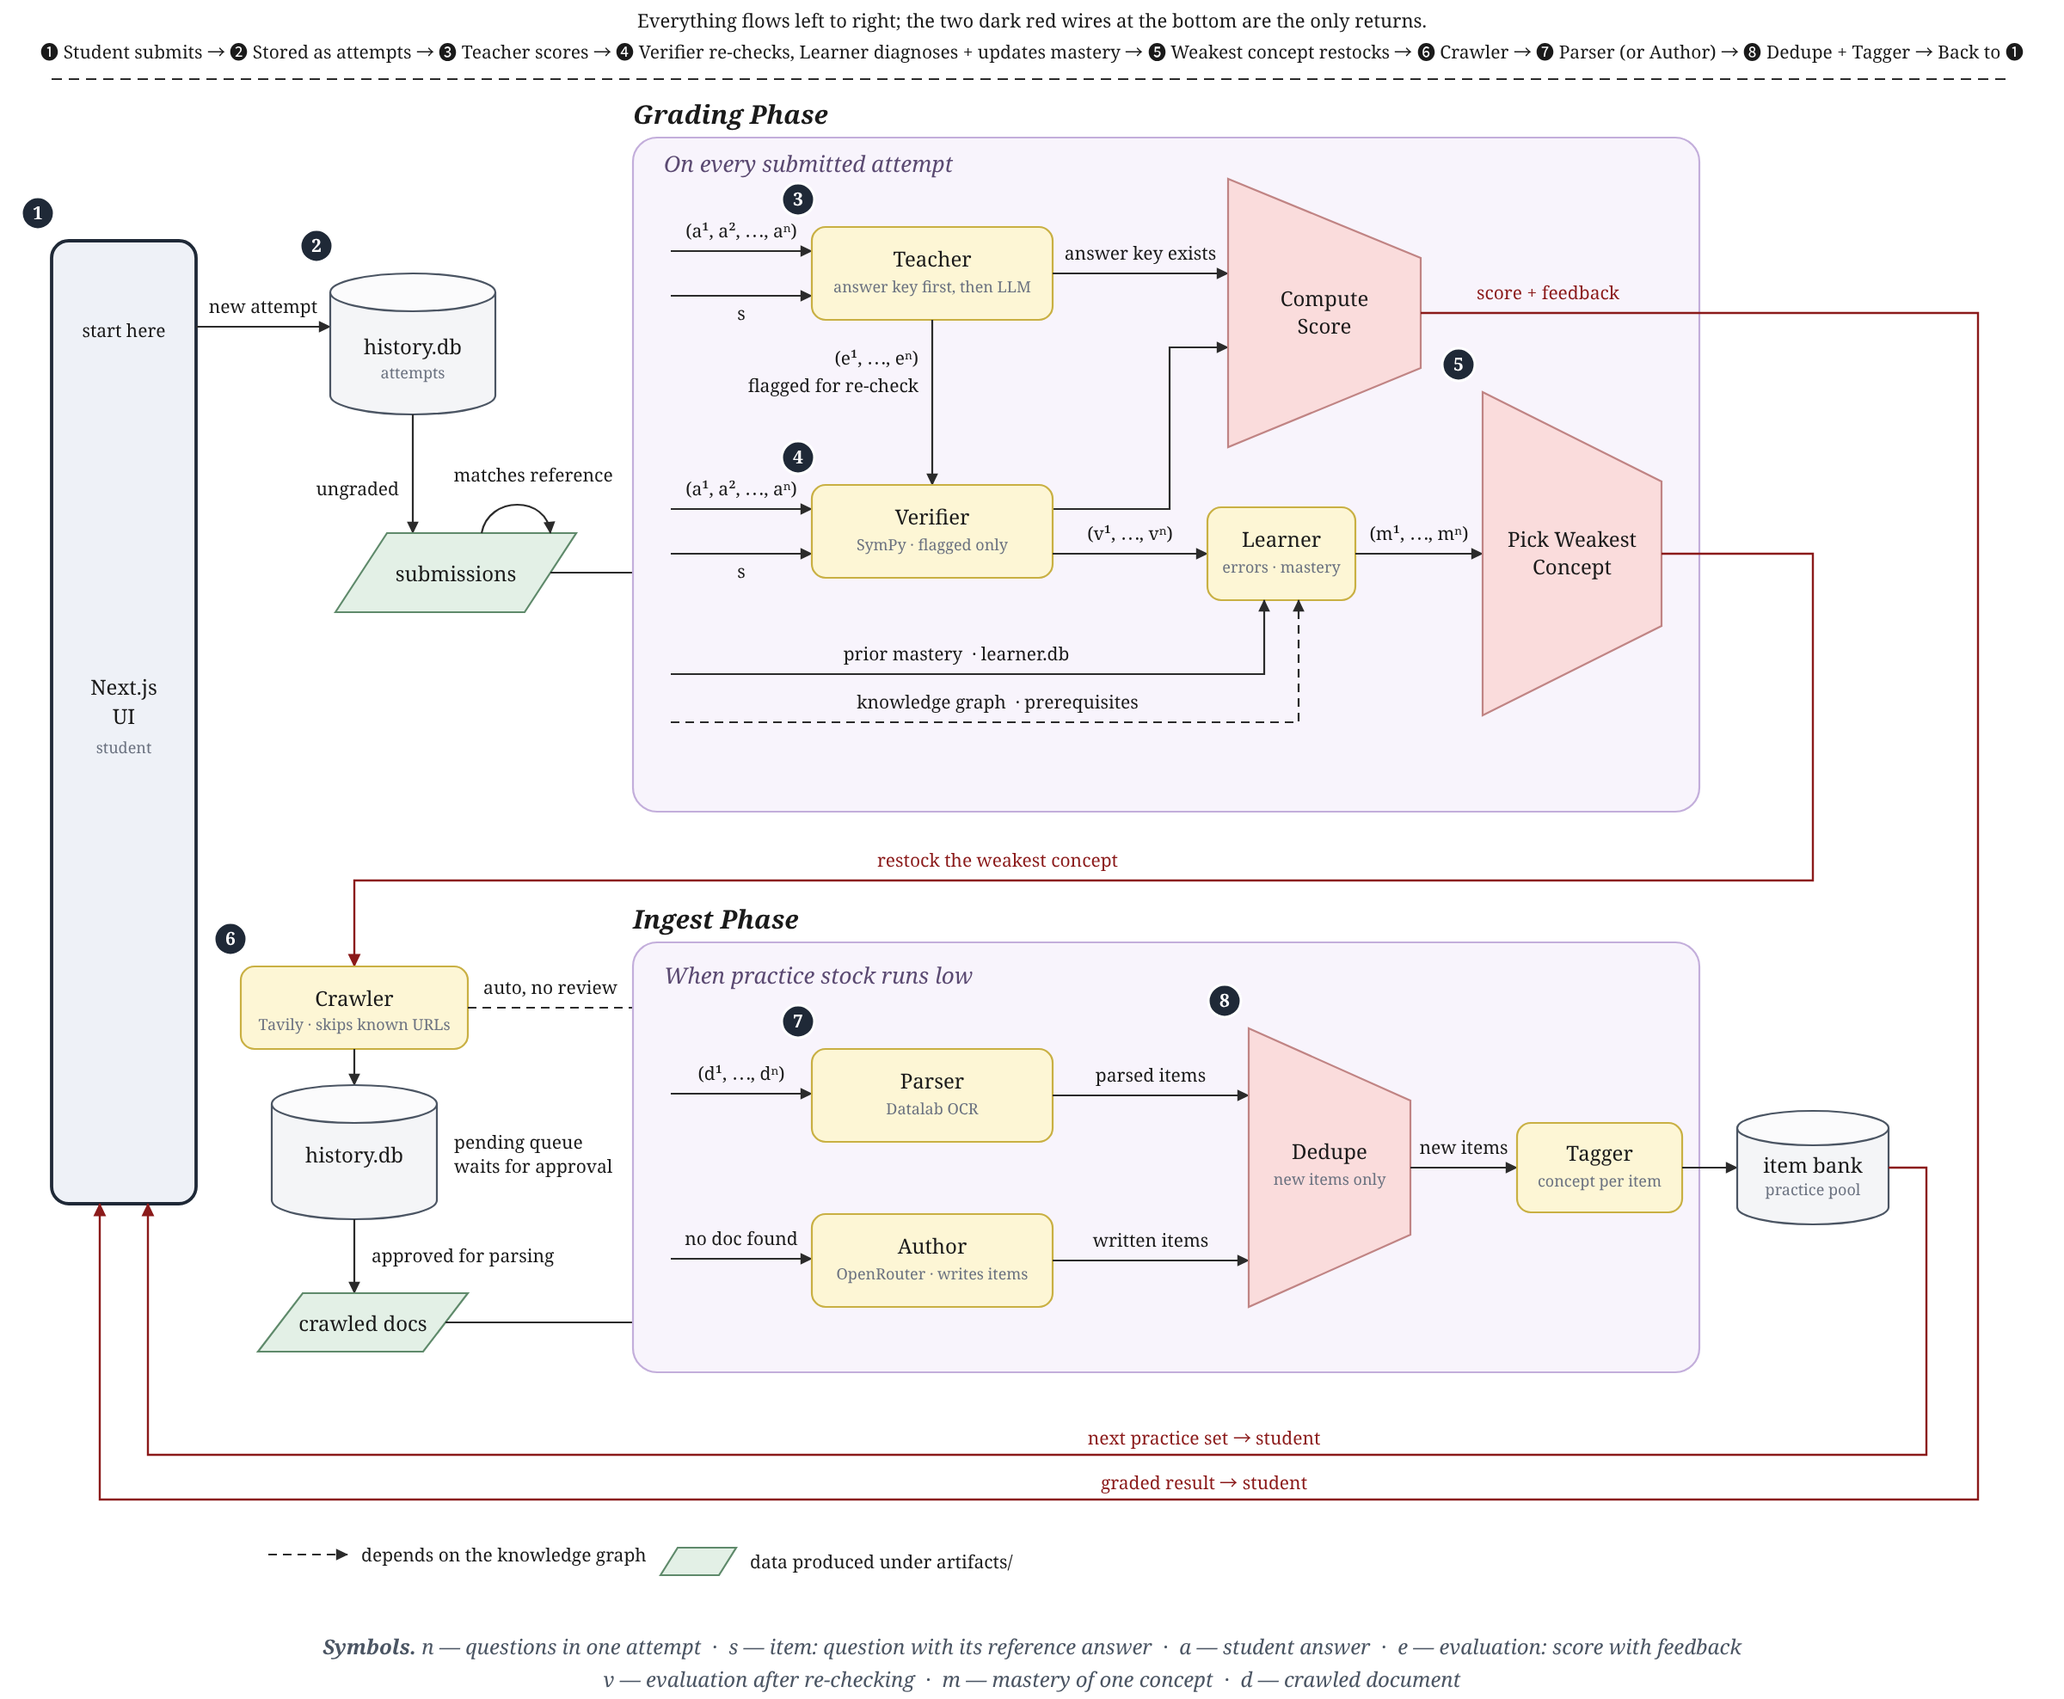
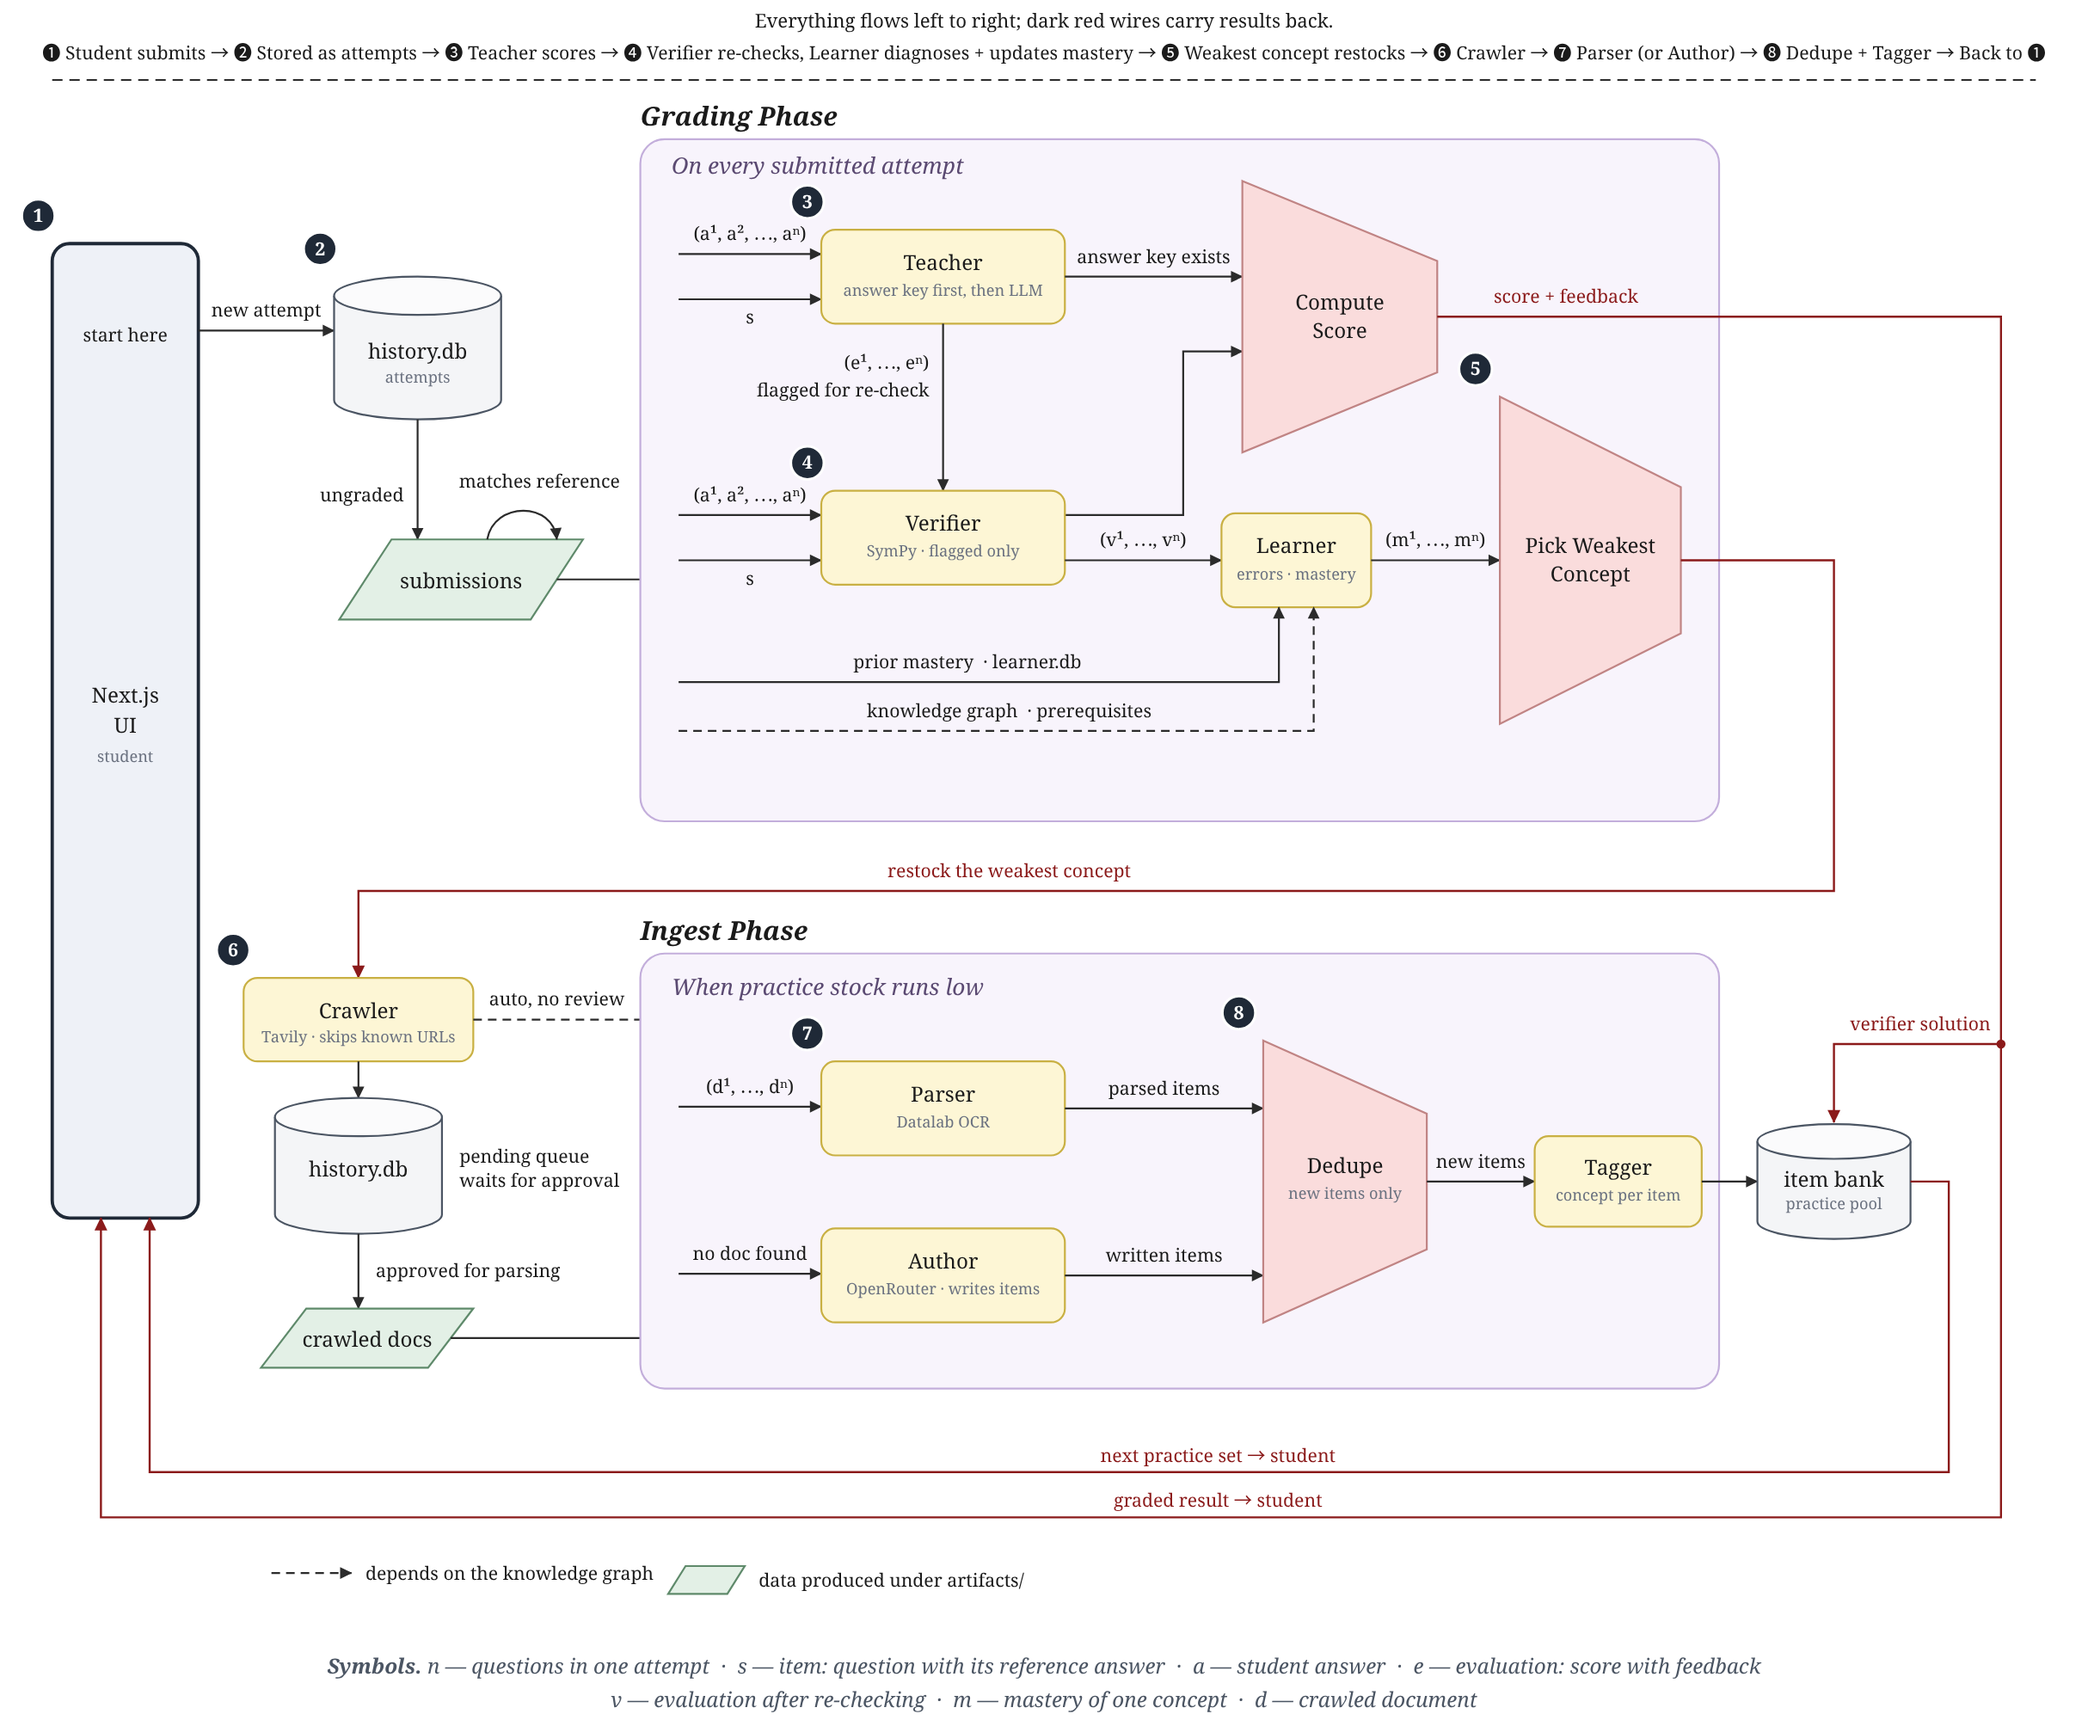
feat: update workflow diagram text for clarity and add verifier solution annotation

diff --git a/assets/workflow.html b/assets/workflow.html
@@ -41,7 +41,7 @@
   </defs>
 
   <!-- reading key -->
-  <text class="key" x="600" y="16" text-anchor="middle">Everything flows left to right; the two dark red wires at the bottom are the only returns.</text>
+  <text class="key" x="600" y="16" text-anchor="middle">Everything flows left to right; dark red wires carry results back.</text>
   <text class="key" x="600" y="34" text-anchor="middle" style="font-size:10.5px">❶ Student submits → ❷ Stored as attempts → ❸ Teacher scores → ❹ Verifier re-checks, Learner diagnoses + updates mastery → ❺ Weakest concept restocks → ❻ Crawler → ❼ Parser (or Author) → ❽ Dedupe + Tagger → Back to ❶</text>
   <line x1="30" y1="46" x2="1170" y2="46" stroke="#2b2b2b" stroke-width="1" stroke-dasharray="6 4"/>
 
@@ -188,6 +188,9 @@
   <text class="out" x="700" y="866" text-anchor="middle">graded result → student</text>
   <path class="r" d="M1098,679 H1120 V846 H86 V700"/>
   <text class="out" x="700" y="840" text-anchor="middle">next practice set → student</text>
+  <path class="r" d="M1150,600 H1054 V645"/>
+  <circle cx="1150" cy="600" r="2.6" fill="#8b1a1a"/>
+  <text class="out" x="1144" y="592" text-anchor="end">verifier solution</text>
 
   <!-- reading order badges -->
   <g><circle class="bg" cx="22" cy="124" r="9.5"/><text class="bn" x="22" y="127.6" text-anchor="middle">1</text></g>
